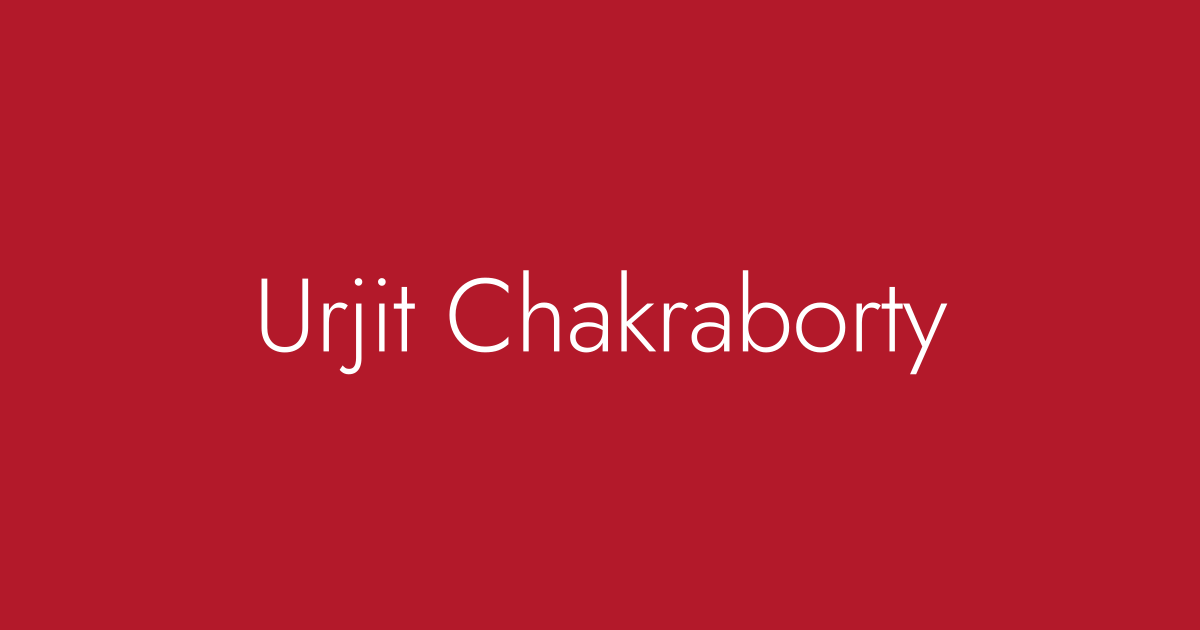
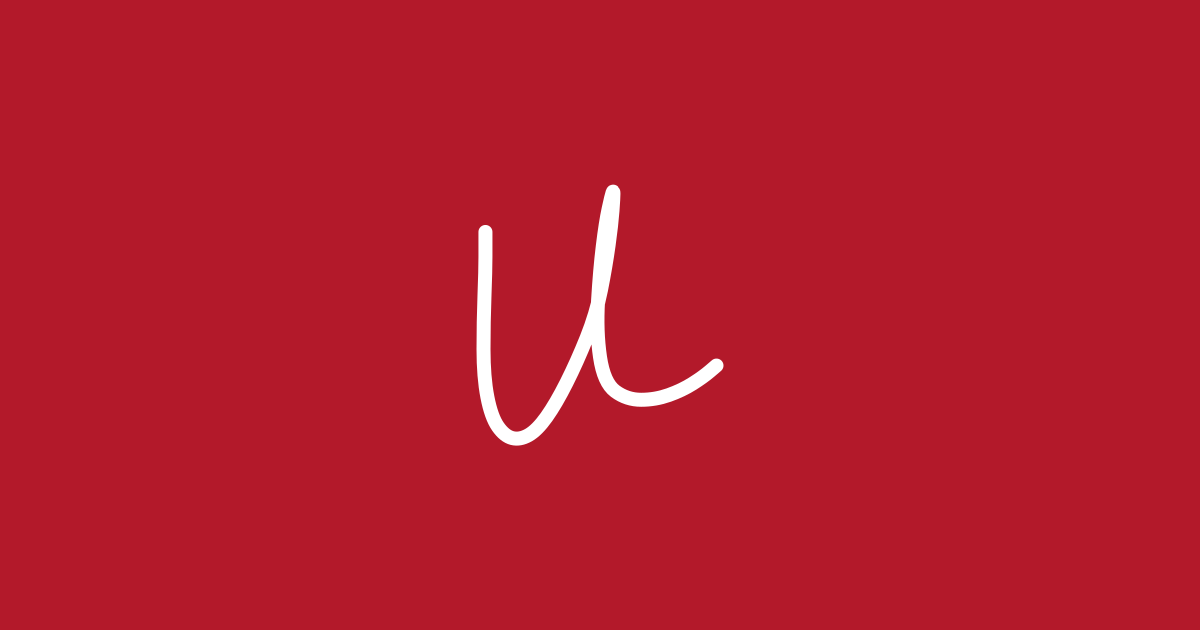
feat(brand): link preview is just my signature's U

Changed region(s): [[0.37, 0.3016, 0.8017, 0.7238], [0.2158, 0.4524, 0.3392, 0.6032]]

diff --git a/art/brand.py b/art/brand.py
@@ -1,12 +1,11 @@
 """
-Builds the favicon and the link-preview image. The favicon is the U from my signature (the
-first stroke of src/features/signature/signature.json) in white on red; the preview sets the
-name in the site's own font, Jost, as outlines so it looks the same everywhere.
+Builds the favicon and the link-preview image, both the U from my signature (the first stroke
+of src/features/signature/signature.json) in white on red.
 
-    python3 -I art/brand.py          # needs fontTools + brotli, and rsvg-convert
+    python3 -I art/brand.py          # needs rsvg-convert
 
 Writes public/favicon.svg, public/favicon.png (32px), public/apple-touch-icon.png (180px)
-and public/og.png (1200 x 630): just the name, set like the page.
+and public/og.png (1200 x 630).
 """
 
 import json
@@ -14,48 +13,34 @@ import subprocess
 import tempfile
 from pathlib import Path
 
-from fontTools.pens.svgPathPen import SVGPathPen
-from fontTools.pens.transformPen import TransformPen
-from fontTools.ttLib import TTFont
-from fontTools.varLib.instancer import instantiateVariableFont
-
 ROOT = Path(__file__).resolve().parent.parent
 PUBLIC = ROOT / 'public'
-FONT = ROOT / 'node_modules/@fontsource-variable/jost/files/jost-latin-wght-normal.woff2'
 RED = '#b3192a'
 SIGNATURE = ROOT / 'src/features/signature/signature.json'
-NAME = 'Urjit Chakraborty'
 
 
-def jost(weight):
-    font = TTFont(FONT)
-    return instantiateVariableFont(font, {'wght': weight})
-
-
-def text_path(font, text, size, x, y, tracking=0.0):
-    """SVG path data for `text` set at `size` px with its baseline starting at (x, y)."""
-    scale = size / font['head'].unitsPerEm
-    cmap, glyphs, hmtx = font.getBestCmap(), font.getGlyphSet(), font['hmtx']
-    pen = SVGPathPen(glyphs)
-    for char in text:
-        name = cmap[ord(char)]
-        glyphs[name].draw(TransformPen(pen, (scale, 0, 0, -scale, x, y)))
-        x += hmtx[name][0] * scale + tracking * size
-    return pen.getCommands(), x
-
-
-def signature_u(height):
-    """The signature's first stroke (its U) as smooth path data, `height` tall, centred in 32."""
+def signature_u(height, cx, cy):
+    """The signature's first stroke (its U) as smooth path data, `height` tall, centred on (cx, cy)."""
     points = json.loads(SIGNATURE.read_text())['strokes'][0]
+    # The pen wobbles a few px as it lands; start where it leaves that, so the big preview
+    # doesn't show a little hook at the top.
+    x0, y0, _ = points[0]
+    settled = max(i for i, (x, y, _) in enumerate(points) if (x - x0) ** 2 + (y - y0) ** 2 < 16)
+    points = points[settled:]
     xs, ys = [p[0] for p in points], [p[1] for p in points]
     scale = height / (max(ys) - min(ys))
-    cx, cy = (min(xs) + max(xs)) / 2, (min(ys) + max(ys)) / 2
-    pts = [(16 + (x - cx) * scale, 16 + (y - cy) * scale) for x, y, _ in points]
+    mx, my = (min(xs) + max(xs)) / 2, (min(ys) + max(ys)) / 2
+    pts = [(cx + (x - mx) * scale, cy + (y - my) * scale) for x, y, _ in points]
     # Quadratic curves between midpoints, as the site draws the signature.
     d = f'M{pts[0][0]:.2f} {pts[0][1]:.2f}'
     for (x, y), (nx, ny) in zip(pts[1:-1], pts[2:]):
         d += f'Q{x:.2f} {y:.2f} {(x + nx) / 2:.2f} {(y + ny) / 2:.2f}'
     return d + f'L{pts[-1][0]:.2f} {pts[-1][1]:.2f}'
+
+
+def stroke(d, width):
+    return (f'<path d="{d}" fill="none" stroke="#fff" stroke-width="{width}" '
+            f'stroke-linecap="round" stroke-linejoin="round"/>')
 
 
 def render(svg, out, width, height):
@@ -66,25 +51,17 @@ def render(svg, out, width, height):
 
 
 def main():
-    # Favicon: my signature's U, white on red, 20 of its 32 units tall, with a line heavy
-    # enough to hold at 16px.
+    # Favicon: the U 20 of its 32 units tall, with a line heavy enough to hold at 16px.
     icon = (f'<svg xmlns="http://www.w3.org/2000/svg" viewBox="0 0 32 32" role="img" aria-label="Urjit">'
-            f'<rect width="32" height="32" rx="7" fill="{RED}"/>'
-            f'<path d="{signature_u(20)}" fill="none" stroke="#fff" stroke-width="2.2" '
-            f'stroke-linecap="round" stroke-linejoin="round"/></svg>\n')
+            f'<rect width="32" height="32" rx="7" fill="{RED}"/>{stroke(signature_u(20, 16, 16), 2.2)}</svg>\n')
     (PUBLIC / 'favicon.svg').write_text(icon)
     render(icon, PUBLIC / 'favicon.png', 32, 32)
     # The home-screen icon is masked by iOS itself, so it gets square corners.
     render(icon.replace(' rx="7"', ''), PUBLIC / 'apple-touch-icon.png', 180, 180)
 
-    # Link preview: the name alone, centred, in the page's light Jost, white on red.
-    font = jost(300)
-    size = 104
-    _, width = text_path(font, NAME, size, 0, 0, tracking=-0.01)
-    cap = font['OS/2'].sCapHeight * size / font['head'].unitsPerEm
-    name, _ = text_path(font, NAME, size, (1200 - width) / 2, (630 + cap) / 2, tracking=-0.01)
+    # Link preview: the U alone, centred, in a finer pen line than the small icon needs.
     og = (f'<svg xmlns="http://www.w3.org/2000/svg" viewBox="0 0 1200 630">'
-          f'<rect width="1200" height="630" fill="{RED}"/><path d="{name}" fill="#fff"/></svg>\n')
+          f'<rect width="1200" height="630" fill="{RED}"/>{stroke(signature_u(250, 600, 315), 14)}</svg>\n')
     render(og, PUBLIC / 'og.png', 1200, 630)
 
 
